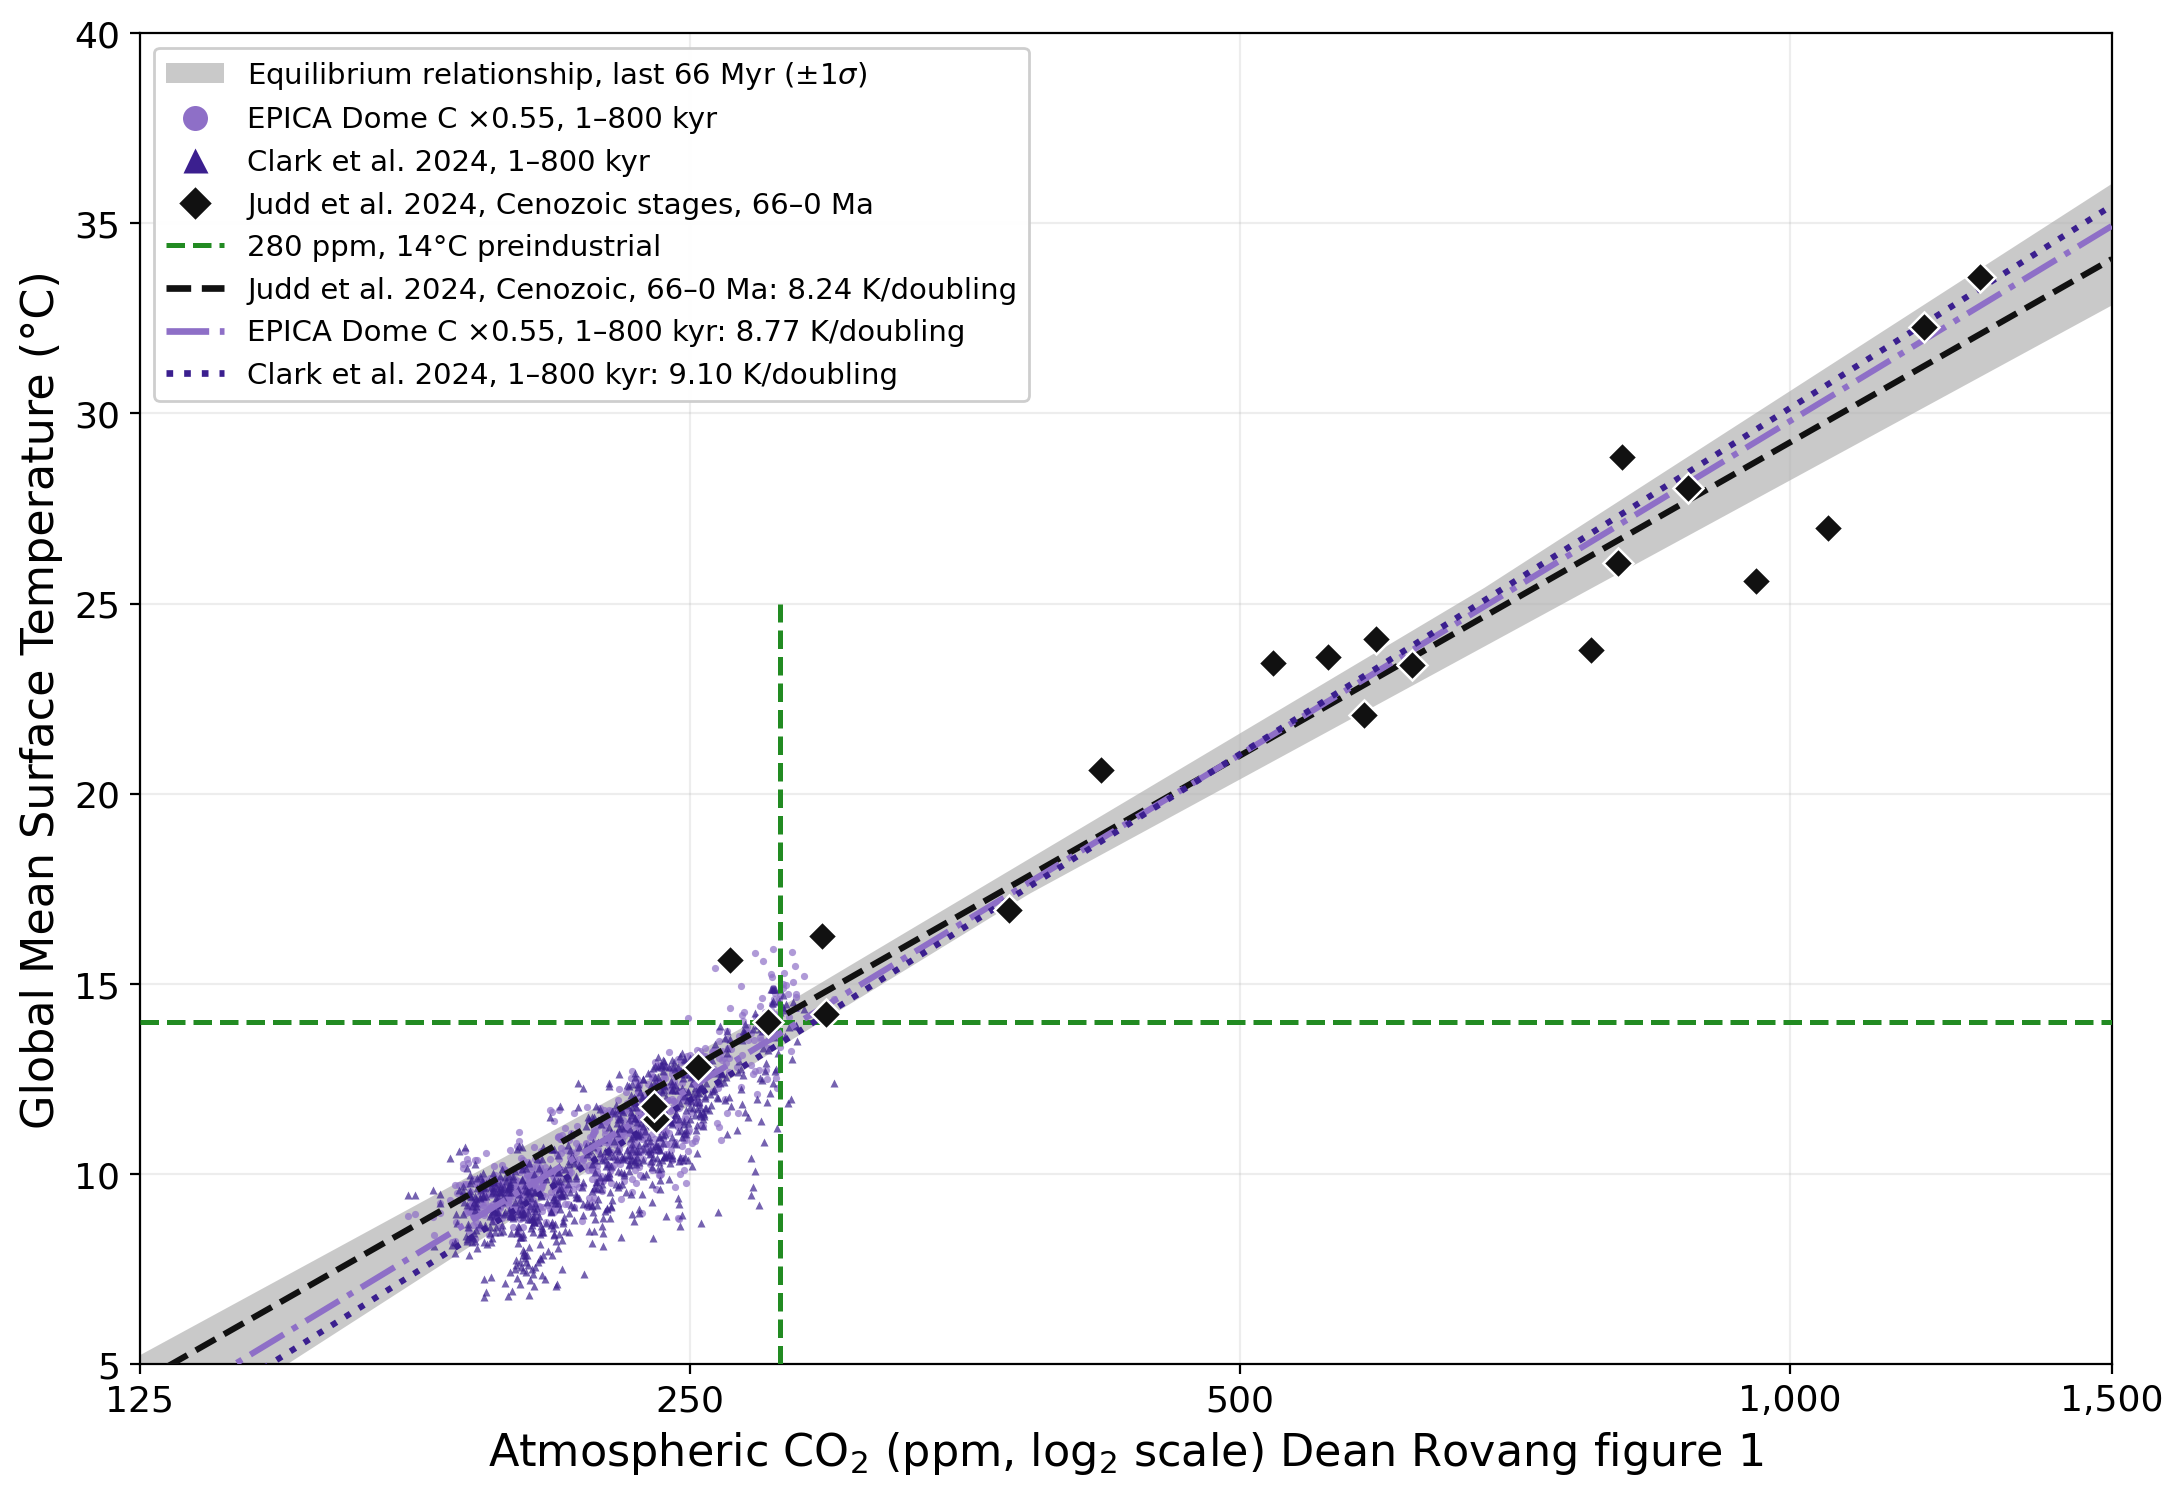
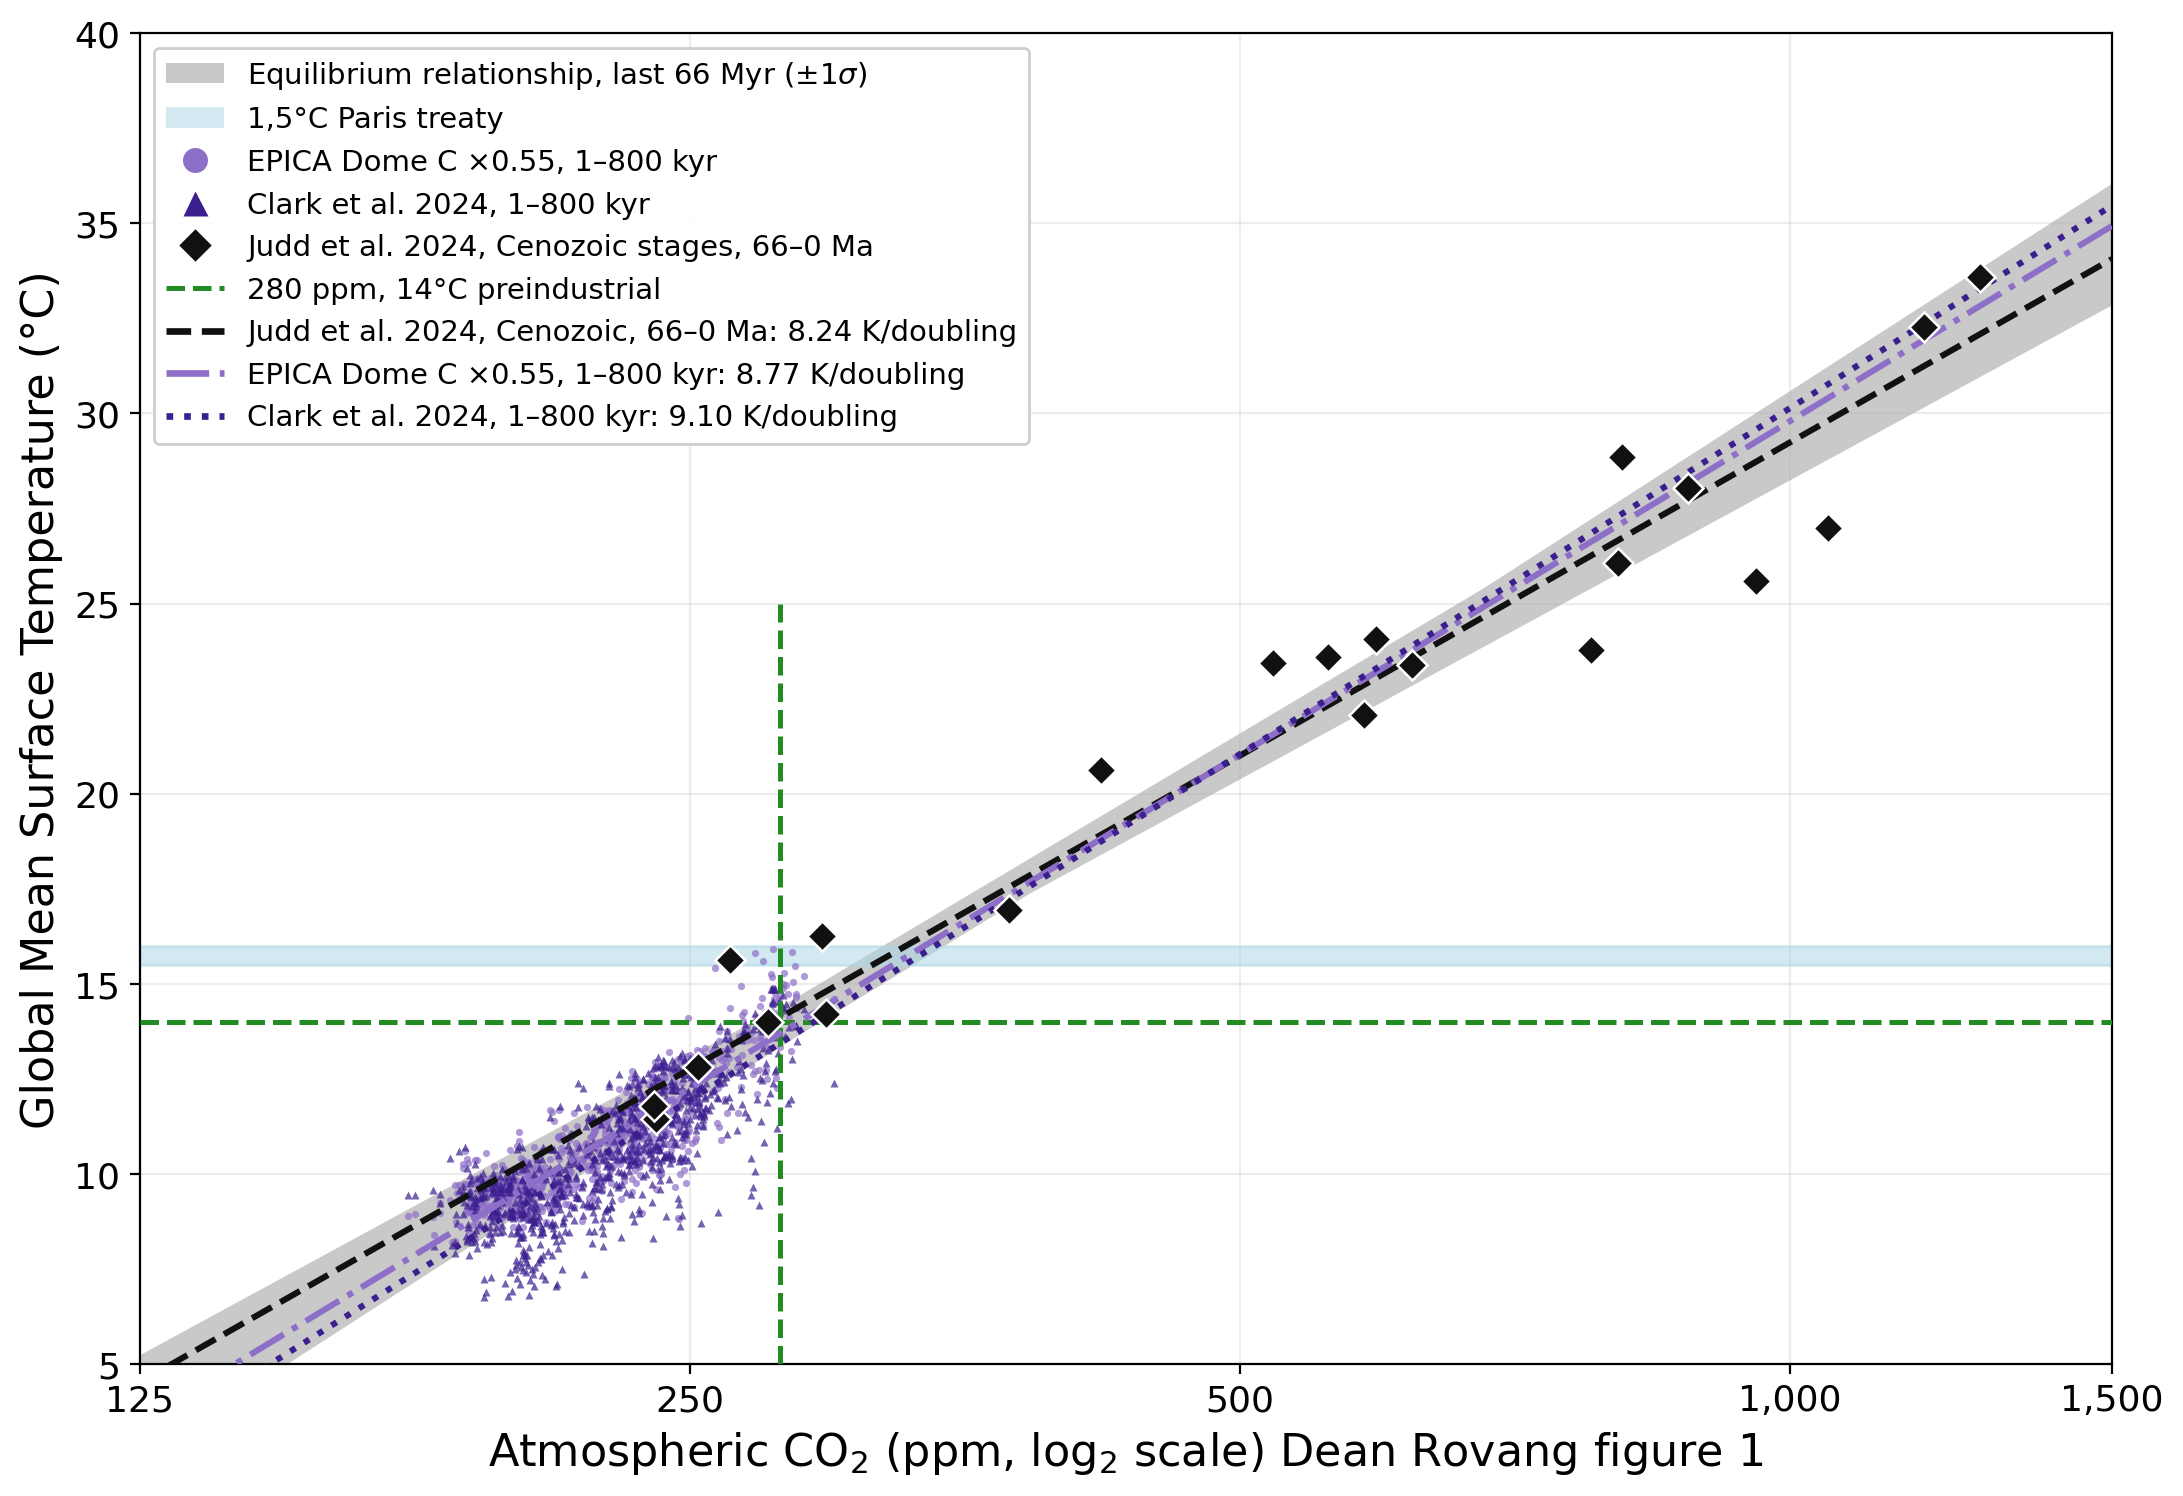
make a light blue band for 15.5 to 16°C °C temperature and write 1,5°C Paris treaty in Rovang_figure_1.png

Changed region(s): [[0.0623, 0.0615, 0.4672, 0.3075], [0.0623, 0.615, 0.9656, 0.6457]]

diff --git a/Rovang/Rovang_figure_1.py b/Rovang/Rovang_figure_1.py
@@ -30,7 +30,7 @@ XLO, XHI = 125, 1500
 YLO, YHI = 5, 40
 
 def Rovang_figure_1():
-    """Create Rovang Figure 1 and save it as Rovang/Rovang_figure01.png."""
+    """Create Rovang Figure 1 and save it as Rovang/Rovang_figure_1.png."""
     with contextlib.redirect_stdout(io.StringIO()):
         try:
             from . import build_york_final as B
@@ -42,7 +42,7 @@ def Rovang_figure_1():
     )
     figure_dir = os.path.join(out_dir, "Rovang")
     os.makedirs(figure_dir, exist_ok=True)
-    output_path = os.path.join(figure_dir, "Rovang_figure01.png")
+    output_path = os.path.join(figure_dir, "Rovang_figure_1.png")
 
     Lg = lambda p: np.log2(np.asarray(p, float) / B.C0)
     fits = [
@@ -102,6 +102,10 @@ def Rovang_figure_1():
     ax.set_ylabel("Global Mean Surface Temperature (\u00b0C)", fontsize=16)
     ax.tick_params(axis="both", labelsize=13)
     ax.grid(True, alpha=0.22)
+    paris_band_color = "#add8e6"
+    ax.axhspan(15.5, 16, color=paris_band_color, alpha=0.55, zorder=2)
+    co2_band_color = "#87ceeb"
+    ax.axvspan(430, 480, color=co2_band_color, alpha=0.35, zorder=2)
     reference_color = "#228B22"
     ax.axhline(14, color=reference_color, ls="--", lw=1.8, zorder=6)
     ax.plot([280, 280], [5, 25], color=reference_color, ls="--", lw=1.8,
@@ -109,6 +113,10 @@ def Rovang_figure_1():
     handles = [
         Patch(facecolor=GRAY, alpha=0.75,
               label="Equilibrium relationship, last 66 Myr ($\\pm1\\sigma$)"),
+        Patch(facecolor=paris_band_color, alpha=0.55,
+              label="1.5\u00b0C Paris treaty below 2°C"),
+        Patch(facecolor=co2_band_color, alpha=0.35,
+              label="430 ppm in 2026 (430\u2013480 ppm range)"),
         Line2D([], [], ls="none", marker="o", ms=9, mfc=EP, mec="none",
                label="EPICA Dome C \u00d70.55, 1\u2013800 kyr"),
         Line2D([], [], ls="none", marker="^", ms=9, mfc=CLK, mec="none",

diff --git a/main.py b/main.py
@@ -1,5 +1,5 @@
 # main.py
-v = "5K37" # Rovang_figure01.png copied Dean Rovang https://zenodo.org/records/22837428
+v = "5K38" # Rovang_figure01.png copied Dean Rovang https://zenodo.org/records/22837428
 # https://github.com/Boettcher1960/5_CO2_EEI_T
 # ocean stratification https://bsky.app/profile/thomas-boettcher.bsky.social/post/3mj7zx7fzsc26
 # https://drtomharris.substack.com/p/the-great-decoupling-how-ocean-stratification
@@ -641,11 +641,11 @@ def main():
     # Close figure
     plt.close(fig)
     # 200.1 main.py line 606 call 
-    if plot200 == 2: # plot200 = 2 # 2=new figure with era5 temperature and quadratic curve
+    if figure202 == 2: # figure202 = 2 # 2=new figure with era5 temperature and quadratic curve
        fig_202_era5_temp_quadratic()
 
     # 210.1 main.py line 606 call 
-    if plot210 == 3: # call Rovang_figure_1.py
+    if figure210 == 3: # call Rovang_figure_1.py
        Rovang_figure_1()
 
 

diff --git a/models.py b/models.py
@@ -973,6 +973,15 @@ not to spoil the legend
 make a new legend line with writing 280 ppm 14°C preindustieal in Rovang_figure_1.png
 
 how to show Rovang_figure_1.png when running main.py
+
+make a new legend line with writing 280 ppm 14°C preindustieal in Rovang_figure_1.png
+
+how to show Rovang_figure_1.png when running main.py
+
+make a light blue band for 15.5 to 16°C °C temperature and write 1,5°C Paris treaty in Rovang_figure_1.png
+
+make a light blue band for 430ppm to 480ppm CO2 x axis in 2026 in Rovang_figure_1.png
+
 """
 
 

diff --git a/config.py b/config.py
@@ -67,8 +67,9 @@ plot76_my_T = 0 # 3, 5
 plot_T_77 = 0 # 3, 4
 plot_T_78 = 0 # 3 , 4 , 5 Tom Harris
 
-plot200 = 0 # 2=new figure with era5 temperature and quadratic curve
-plot210 = 3 # 3=new figure Rovang_figure_1.py
+figure100 = 0 # createe no old figure 
+figure202 = 0 # 2=new figure with era5 temperature and quadratic curve
+figure210 = 3 # 3=new figure Rovang_figure_1.py
 
 # variable to show play variable in line 4
 line2_play = 0   # 61  62
